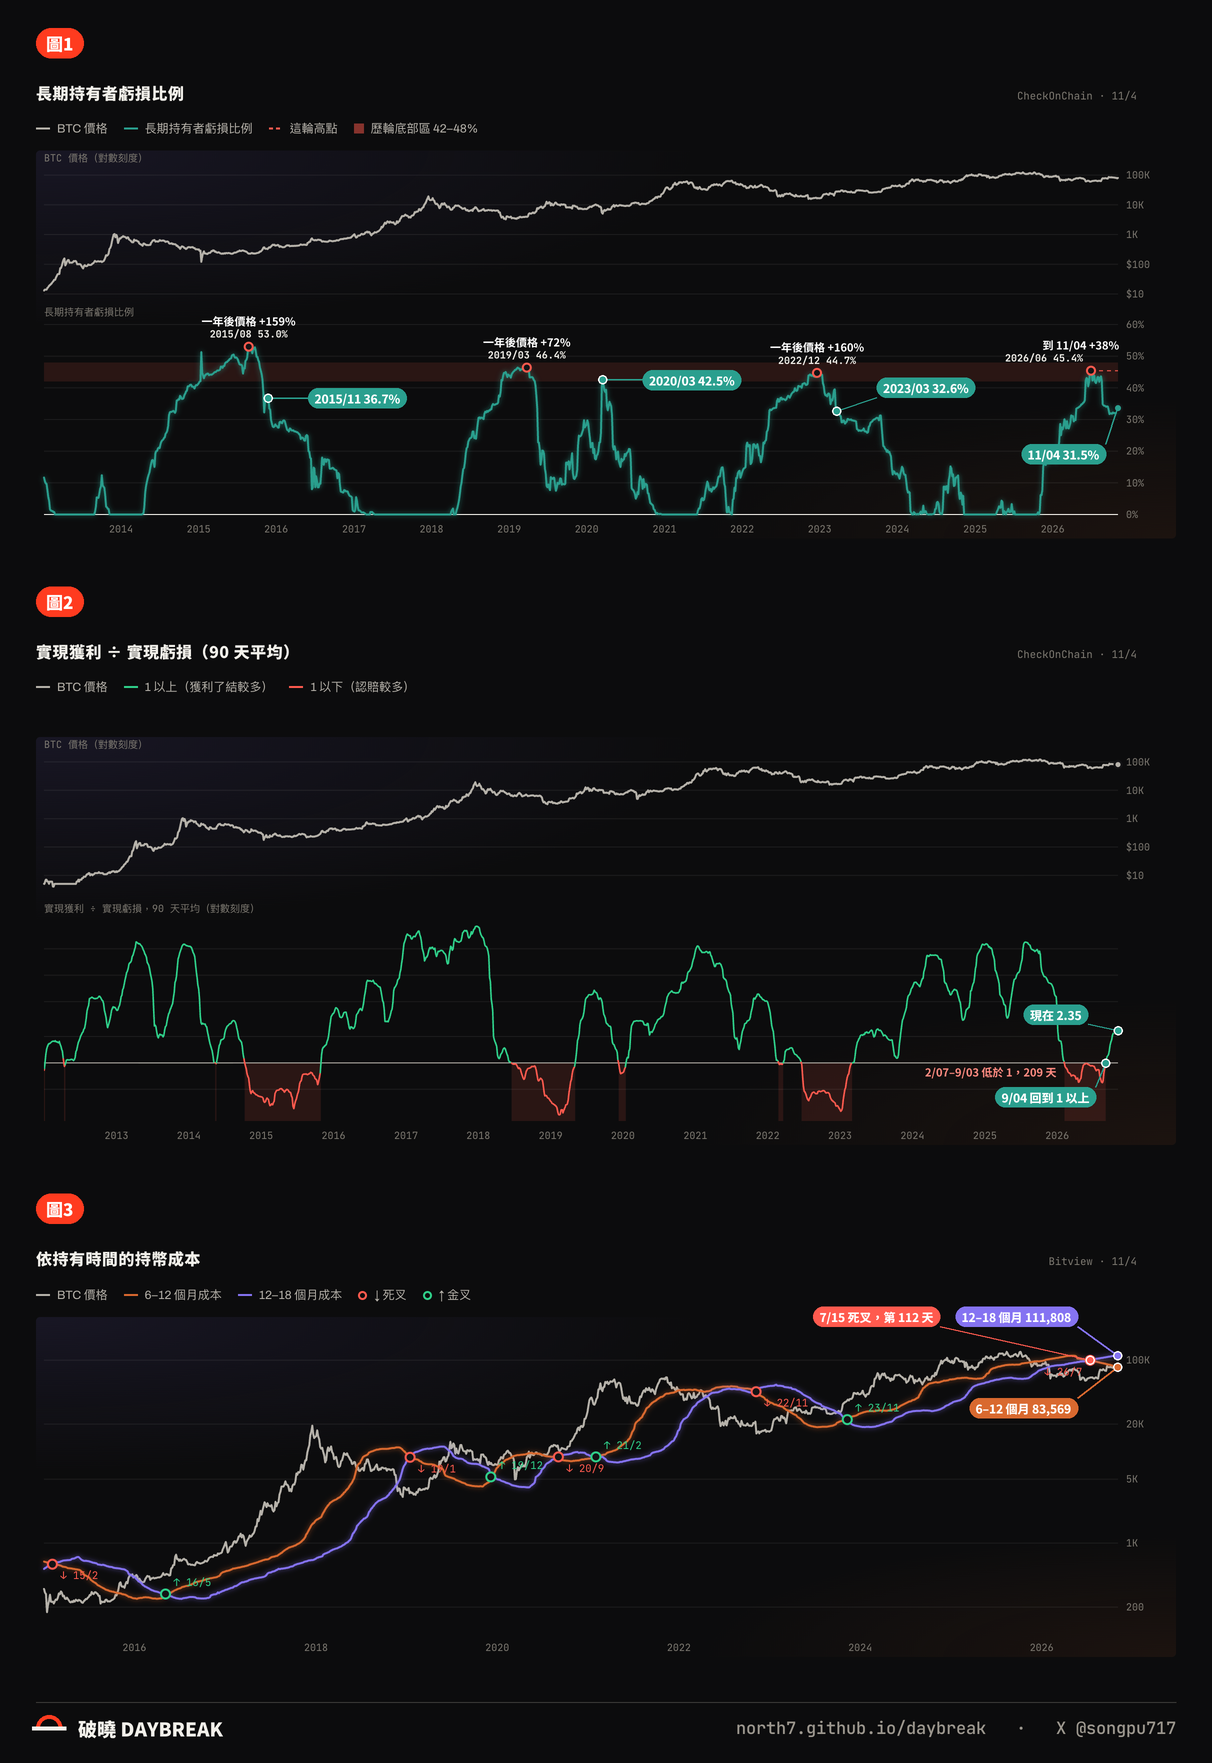
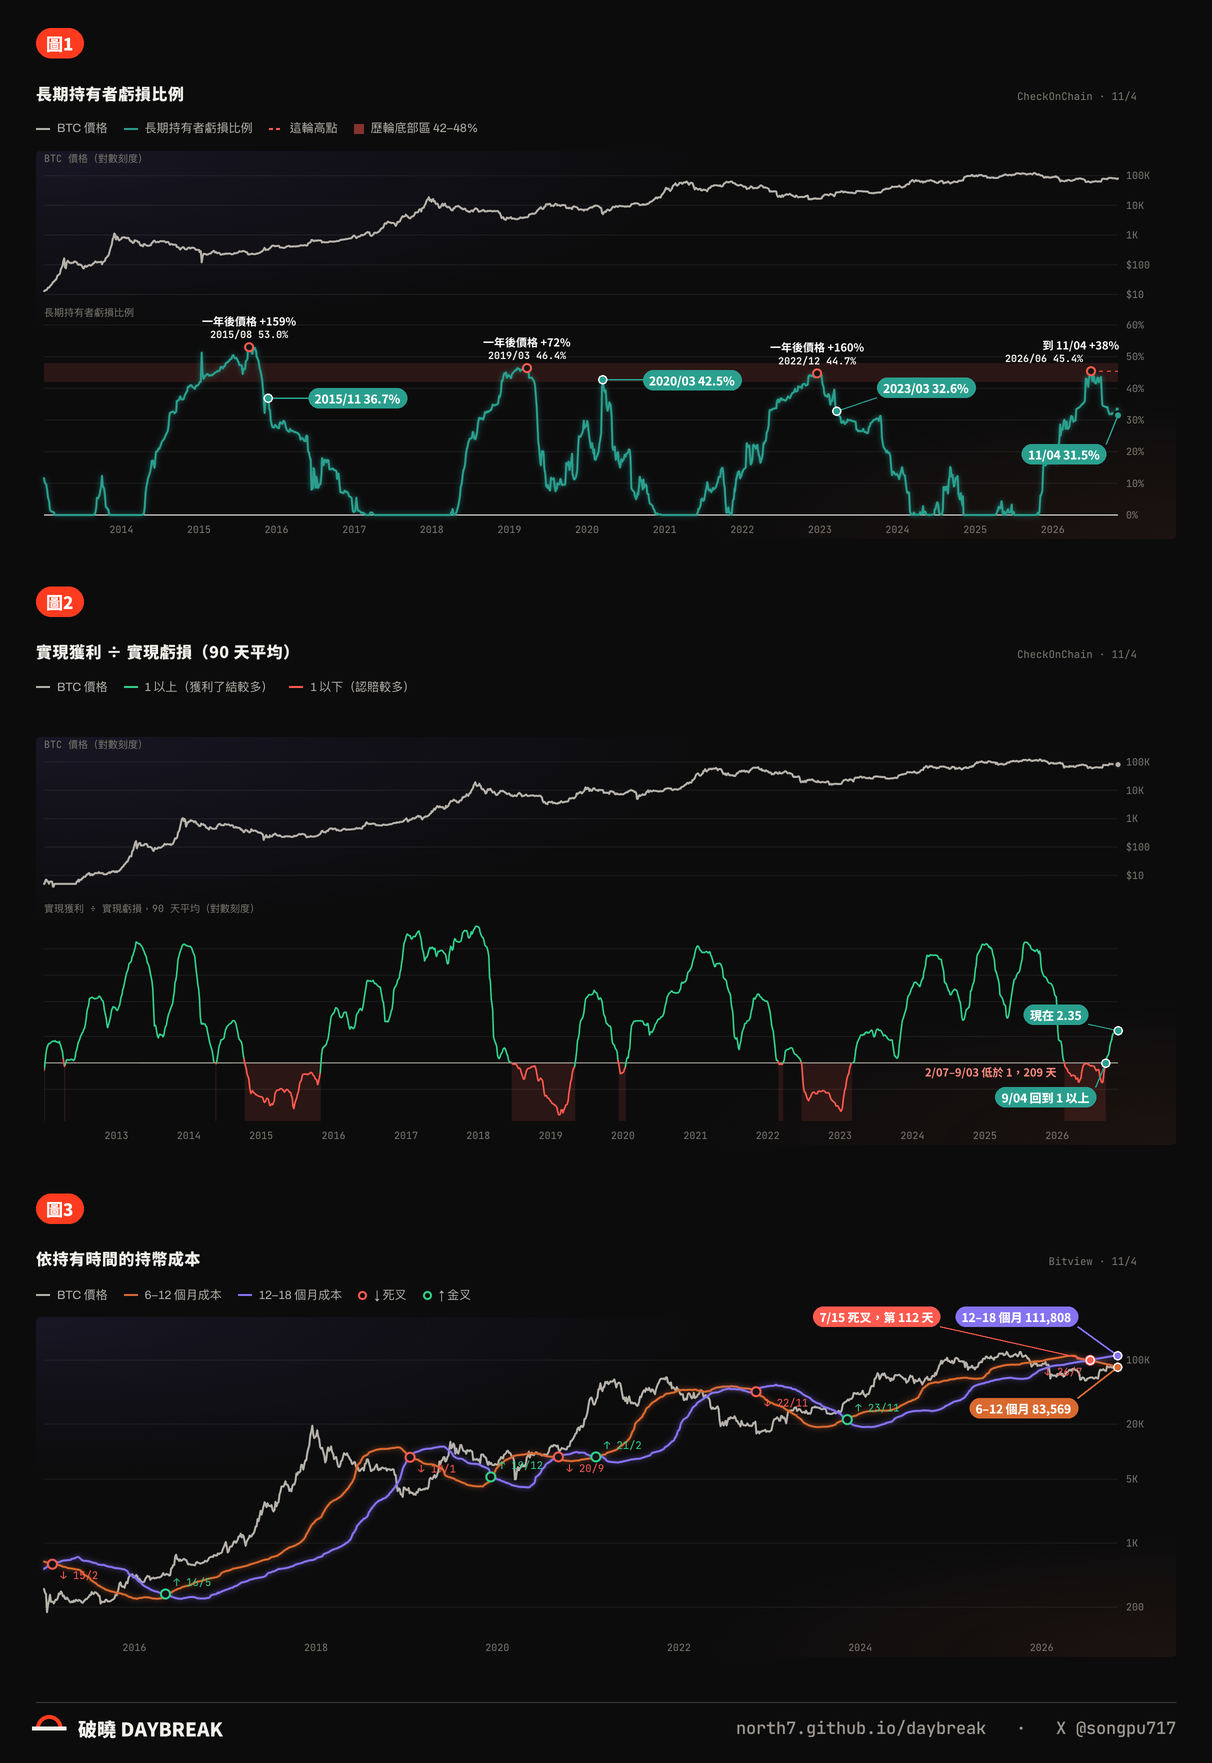
ops: 長貼文配圖工具（網站截圖、標數字、合成）＋流程說明；換上修好線尾的圖
- ops/post/site_shot.py：本機 Chrome 無頭模式截網站圖表面板（內建小伺服器、深色、藏掉解讀文字），另存圖上文字位置
- ops/post/annotate.py：依圖自己的刻度換算座標，把文中引用的數字標在圖上
- ops/post/longpost_img.py：幾張截圖疊成一張長貼文配圖，標「圖1、圖2…」
- ops/README.md：每日長貼文流程；發文小幫手的長貼文、快訊每天整份換新，過期就刪
- 11/05 第 2 則配圖換成網站修好線尾（PR #33）之後的版本

diff --git a/ops/post/site_shot.py b/ops/post/site_shot.py
@@ -1,0 +1,146 @@
+"""網站圖表截圖（2026-11-05 建立）：用本機 Chrome 無頭模式開「本機的網站檔案」（內建小伺服器，127.0.0.1:8790），
+截指定圖表面板成 PNG，同時存一份圖上文字的位置（刻度、標籤）給 annotate.py 換算座標。只用 Python 標準函式庫（自帶最小 WebSocket）。
+發文配圖用：clean=1 會藏掉解讀、表格、說明、按鈕，只留標題列、圖例、圖；theme 用 dark（2026-11-05 使用者選深色）。
+usage（倉庫根目錄）: python3 ops/post/site_shot.py <jobs.json> <輸出資料夾>
+jobs.json: {"lang": "zh"|"en", "theme": "dark"|"light", "width": 1440,
+            "items": [{"page": "onchain", "sel": "#c-lthloss", "out": "b1-lthloss-dark", "clean": 1, "pre": "<等動畫跑完的 js>"}]}
+輸出：<out>.png（2 倍解析度）與 <out>.json（圖上文字位置，CSS px）
+"""
+import base64, json, os, socket, struct, subprocess, sys, time, urllib.request
+
+CHROME = '/Applications/Google Chrome.app/Contents/MacOS/Google Chrome'
+PORT = 9333
+REPO = os.path.dirname(os.path.dirname(os.path.dirname(os.path.abspath(__file__))))   # 倉庫根目錄（本機的網站檔案）
+SITE = 'http://127.0.0.1:8790/'
+
+
+class WS:
+    def __init__(self, url):
+        assert url.startswith('ws://'); rest = url[5:]; hostport, path = rest.split('/', 1)
+        host, port = hostport.split(':')
+        self.s = socket.create_connection((host, int(port)))
+        key = base64.b64encode(os.urandom(16)).decode()
+        self.s.sendall((f'GET /{path} HTTP/1.1\r\nHost: {hostport}\r\nUpgrade: websocket\r\nConnection: Upgrade\r\n'
+                        f'Sec-WebSocket-Key: {key}\r\nSec-WebSocket-Version: 13\r\n\r\n').encode())
+        buf = b''
+        while b'\r\n\r\n' not in buf: buf += self.s.recv(4096)
+        head, self.buf = buf.split(b'\r\n\r\n', 1)
+        assert b' 101 ' in head.split(b'\r\n')[0], head
+        self.id = 0
+
+    def _read(self, n):
+        while len(self.buf) < n:
+            c = self.s.recv(1 << 20)
+            if not c: raise EOFError
+            self.buf += c
+        out, self.buf = self.buf[:n], self.buf[n:]; return out
+
+    def send(self, obj):
+        data = json.dumps(obj).encode(); mask = os.urandom(4); n = len(data)
+        hdr = bytes([0x81]) + (bytes([0x80 | n]) if n < 126 else bytes([0x80 | 126]) + struct.pack('>H', n) if n < 65536 else bytes([0x80 | 127]) + struct.pack('>Q', n))
+        self.s.sendall(hdr + mask + bytes(b ^ mask[i % 4] for i, b in enumerate(data)))
+
+    def recv(self):
+        msg = b''
+        while True:
+            b0, b1 = self._read(2); n = b1 & 0x7F
+            if n == 126: n = struct.unpack('>H', self._read(2))[0]
+            elif n == 127: n = struct.unpack('>Q', self._read(8))[0]
+            if b1 & 0x80: mk = self._read(4); p = bytes(b ^ mk[i % 4] for i, b in enumerate(self._read(n)))
+            else: p = self._read(n)
+            msg += p
+            if b0 & 0x80: break
+        return json.loads(msg)
+
+    def call(self, method, **params):
+        self.id += 1; mid = self.id; self.send(dict(id=mid, method=method, params=params))
+        while True:
+            m = self.recv()
+            if m.get('id') == mid:
+                if 'error' in m: raise RuntimeError(f'{method}: {m["error"]}')
+                return m.get('result', {})
+
+    def js(self, expr):
+        r = self.call('Runtime.evaluate', expression=expr, returnByValue=True, awaitPromise=True)
+        if 'exceptionDetails' in r: raise RuntimeError(r['exceptionDetails'])
+        return r['result'].get('value')
+
+
+def wait(ws, expr, t=30):
+    t0 = time.time()
+    while time.time() - t0 < t:
+        try:
+            if ws.js(expr): return True
+        except Exception: pass
+        time.sleep(0.4)
+    return False
+
+
+def serve():
+    import functools, http.server, threading
+    h = functools.partial(http.server.SimpleHTTPRequestHandler, directory=REPO)
+    h.func.log_message = lambda *a: None
+    srv = http.server.ThreadingHTTPServer(('127.0.0.1', 8790), h)
+    threading.Thread(target=srv.serve_forever, daemon=True).start(); return srv
+
+
+def main():
+    srv = serve()
+    jobs = json.load(open(sys.argv[1])); out = sys.argv[2]; os.makedirs(out, exist_ok=True)
+    import tempfile; prof = tempfile.mkdtemp(prefix='daybreak-chrome-')   # 暫存的 Chrome 設定檔，不寫進倉庫
+    W = jobs.get('width', 1440)
+    p = subprocess.Popen([CHROME, '--headless=new', f'--remote-debugging-port={PORT}', f'--user-data-dir={prof}', '--hide-scrollbars',
+                          '--no-first-run', '--no-default-browser-check', f'--window-size={W},1000', 'about:blank'],
+                         stdout=subprocess.DEVNULL, stderr=subprocess.DEVNULL)
+    try:
+        for _ in range(50):
+            try: tg = json.load(urllib.request.urlopen(f'http://127.0.0.1:{PORT}/json')); break
+            except Exception: time.sleep(0.2)
+        page = next(t for t in tg if t['type'] == 'page')
+        ws = WS(page['webSocketDebuggerUrl'])
+        ws.call('Page.enable'); ws.call('Runtime.enable')
+        ws.call('Emulation.setDeviceMetricsOverride', width=W, height=1000, deviceScaleFactor=2, mobile=False)
+        ws.call('Emulation.setEmulatedMedia', features=[{'name': 'prefers-color-scheme', 'value': jobs.get('theme', 'light')}])
+        ws.call("Page.navigate", url=SITE); wait(ws, "location.href.indexOf(\"8790\") > 0 && document.readyState === \"complete\"")
+        print('at', ws.js('location.href + " " + document.readyState + " " + document.title'))
+        ws.js(f"localStorage.setItem('daybreak.lang', '{jobs['lang']}'); localStorage.setItem('daybreak.theme', '{jobs.get('theme', 'light')}'); true")
+        cur = None
+        for it in jobs['items']:
+            if it['page'] != cur:
+                ws.js('window.__old = 1; true')
+                ws.call('Page.navigate', url=SITE + '?v=' + str(int(time.time())) + '#' + it['page']); cur = it['page']
+                wait(ws, '!window.__old'); wait(ws, "location.href.indexOf(\"8790\") > 0 && document.readyState === \"complete\""); time.sleep(1.0)
+            sel = json.dumps(it['sel'])
+            ok = wait(ws, f'(function(){{var e=document.querySelector({sel}); return !!(e && e.querySelector("svg,canvas"));}})()', 40)
+            if not ok: print('MISSING', it['sel']); continue
+            if it.get('pre'): ws.js(it['pre']); time.sleep(0.8)
+            if it.get('dump'): print(ws.js(f'''(function(){{var p=document.querySelector({sel}).closest("section.panel"); return Array.from(p.children).map(function(c){{return c.tagName+"."+c.className+"#"+c.id+" | "+(c.textContent||"").slice(0,50).replace(/\\s+/g," ")+" | h="+Math.round(c.getBoundingClientRect().height);}}).join("\\n");}})()''')); continue
+            if it.get('clean'):   # 發文用：只留標題列、圖例、圖；解讀、表格、說明、按鈕都藏起來
+                ws.js(f'''(function(){{var p=document.querySelector({sel}).closest("section.panel");
+                    p.querySelectorAll(".interp,#ac-say,.rd,.tbl-wrap,p.note").forEach(function(e){{e.style.display="none";}});
+                    p.querySelectorAll("button").forEach(function(b){{b.style.visibility="hidden"; var q=b.parentElement; if(Array.prototype.every.call(q.children,function(c){{return c.tagName==="BUTTON";}})) q.style.visibility="hidden";}});
+                    p.querySelectorAll(".panel-h a").forEach(function(a){{if(a.textContent.trim()==="#")a.style.visibility="hidden";}});
+                    return true;}})()'''); time.sleep(0.6)
+                it['crop'] = 'chart'
+            ws.js(f'document.querySelector({sel}).closest("section.panel").scrollIntoView({{block:"start"}}); true'); time.sleep(1.2)
+            box = ws.js(f'''(function(){{var c=document.querySelector({sel}), p=c.closest("section.panel"), r=p.getBoundingClientRect(), cr=c.getBoundingClientRect();
+                var sy=window.scrollY, sx=window.scrollX;
+                return {{x:r.left+sx, y:r.top+sy, w:r.width, h:r.height, cy:cr.top+sy, ch:cr.height}};}})()''')
+            y, h = box['y'], box['h']
+            if it.get('crop') == 'chart':   # 面板頂到圖底（含標題列、解讀、圖例、圖）
+                h = box['cy'] + box['ch'] - box['y'] + 16
+            r = ws.call('Page.captureScreenshot', format='png', captureBeyondViewport=True,
+                        clip=dict(x=box['x'], y=y, width=box['w'], height=h, scale=1))
+            fn = os.path.join(out, it['out'] + '.png'); open(fn, 'wb').write(base64.b64decode(r['data']))
+            print('wrote', fn, round(box['w']), 'x', round(h))
+            # 圖上所有文字（刻度、標籤）的位置，相對截圖左上角、CSS px；給 annotate.py 換算座標用
+            geo = ws.js(f'''(function(){{var c=document.querySelector({sel}), p=c.closest("section.panel"), pr=p.getBoundingClientRect();
+                return Array.from(c.querySelectorAll("svg text")).map(function(t){{var b=t.getBoundingClientRect();
+                  return {{t:(t.textContent||"").trim(), x:b.left-pr.left+b.width/2, y:b.top-pr.top+b.height/2, l:b.left-pr.left, r:b.right-pr.left, anchor:t.getAttribute("text-anchor")||""}};}});}})()''')
+            json.dump(dict(dpr=2, texts=geo), open(os.path.join(out, it['out'] + '.json'), 'w'), ensure_ascii=False)
+    finally:
+        p.terminate(); srv.shutdown()
+
+
+if __name__ == '__main__':
+    main()

diff --git a/ops/post/annotate.py b/ops/post/annotate.py
@@ -1,0 +1,69 @@
+"""在網站圖表截圖上標出文中引用的數字（2026-11-05 使用者要求：文中提到、圖上找得到的數字要標出位置）。
+座標由圖自己的刻度換算（site_shot.py 存的 .json）：年份標籤在每年 1/1、% 刻度線性、價格與比值刻度對數。
+usage（倉庫根目錄）: python3 ops/post/annotate.py <spec.json> <截圖資料夾> <輸出資料夾> <字型資料夾>
+spec: {"<raw name>": {"axes": {"<axis>": {"kind": "lin"|"log", "unit": "%"|"", "yrange": [y0, y1]}}, "palette": {...},
+                       "marks": [{"axis": "<axis>", "date": "YYYY-MM-DD", "v": 6.5, "label": "...", "color": "s2"|"#hex",
+                                  "lv": <label value>, "ldx": <label x offset, CSS px>, "anchor": "middle"|"start"|"end",
+                                  "dot": true, "plain": false}]}}
+  yrange picks which tick labels belong to an axis (CSS px, top of the screenshot = 0). Year labels sit at Jan 1.
+  Legacy: "axis": "pct" at the image level = one linear % axis over all % labels.
+"""
+import datetime as dt, json, math, os, re, sys
+sys.path.insert(0, os.path.join(os.path.dirname(os.path.dirname(os.path.dirname(os.path.abspath(__file__)))), 'pipeline'))
+from PIL import Image, ImageDraw
+import share_card as SC
+
+spec, rawdir, outdir, fonts = sys.argv[1:5]
+Fn = SC.fonts(fonts); os.makedirs(outdir, exist_ok=True)
+
+
+def fit(pairs):
+    n = len(pairs); mx = sum(a for a, _ in pairs) / n; my = sum(b for _, b in pairs) / n
+    b = sum((a - mx) * (c - my) for a, c in pairs) / sum((a - mx) ** 2 for a, _ in pairs)
+    return lambda v: my + b * (v - mx)
+
+
+def num(t):
+    m = re.fullmatch(r'\$?([\d.]+)(K|%)?', t.replace(',', ''))
+    if not m: return None
+    try: return float(m.group(1)) * (1000 if m.group(2) == 'K' else 1)
+    except ValueError: return None
+
+
+for name, s in json.load(open(spec, encoding='utf-8')).items():
+    g = json.load(open(os.path.join(rawdir, name + '.json'))); K = g['dpr']; T = g['texts']
+    X = fit([(dt.date(int(t['t']), 1, 1).toordinal(), t['x']) for t in T if re.fullmatch(r'20\d\d', t['t'])])
+    axes = s.get('axes') or {'pct': {'kind': 'lin', 'unit': '%', 'yrange': [0, 1e9]}}
+    Y = {}
+    for an, ax in axes.items():
+        lo, hi = ax['yrange']
+        ticks = [(num(t['t']), t['y']) for t in T if num(t['t']) is not None and lo <= t['y'] <= hi
+                 and (t['t'].endswith('%') if ax.get('unit') == '%' else not t['t'].endswith('%')) and t['x'] > 900]
+        if ax['kind'] == 'log':
+            f = fit([(math.log10(v), y) for v, y in ticks]); Y[an] = (lambda f: lambda v: f(math.log10(v)))(f)
+        else:
+            Y[an] = fit(ticks)
+        print(name, an, 'ticks', [v for v, _ in ticks])
+    first = next(iter(axes))
+    im = Image.open(os.path.join(rawdir, name + '.png')).convert('RGB'); d = ImageDraw.Draw(im)
+    pal = s.get('palette') or {}
+    lf = Fn['cjk'](24, 800)
+    for m in s['marks']:
+        Ya = Y[m.get('axis', first)]
+        x = X(dt.date.fromisoformat(m['date']).toordinal()) * K; y = Ya(m['v']) * K
+        col = pal.get(m.get('color'), m.get('color', '#FFD23F'))
+        lx = x + m.get('ldx', 0) * K; ly = Ya(m.get('lv', m['v'])) * K
+        if m.get('plain'):
+            d.text((lx, ly), m['label'], font=Fn['cjk'](22, 700), fill=col, anchor={'start': 'lm', 'end': 'rm'}.get(m.get('anchor'), 'mm'))
+            continue
+        tw = d.textlength(m['label'], font=lf); pw, ph = tw + 26, 40
+        an = m.get('anchor', 'middle')
+        bx0 = lx - pw / 2 if an == 'middle' else lx if an == 'start' else lx - pw
+        bx0 = max(4, min(im.width - pw - 4, bx0)); by0 = ly - ph / 2
+        cx = min(max(x, bx0), bx0 + pw); cy = by0 + ph if y > by0 + ph else by0 if y < by0 else ly
+        if abs(cy - y) > 4 or abs(cx - x) > 4: d.line([cx, cy, x, y], fill=col, width=3)
+        d.rounded_rectangle([bx0, by0, bx0 + pw, by0 + ph], radius=ph / 2, fill=col)
+        d.text((bx0 + pw / 2, ly), m['label'], font=lf, fill='#FFFFFF', anchor='mm')
+        if m.get('dot', True):
+            r = 9; d.ellipse([x - r, y - r, x + r, y + r], fill=col, outline='#FFFFFF', width=3)
+    im.save(os.path.join(outdir, name + '.png')); print('annotated', name, len(s['marks']))

diff --git a/ops/post/longpost_img.py b/ops/post/longpost_img.py
@@ -1,0 +1,27 @@
+"""長貼文配圖：把幾張（已標註的）網站圖表截圖疊成一張直式圖，每張上方標紅色「圖1、圖2…」，對應內文；底部破曉頁尾。
+一則貼文用一張合成圖：X 的多圖格子會把橫式圖裁掉（2 張並排每格約 7:8），單張圖在時間軸上完整顯示。
+usage（倉庫根目錄）: python3 ops/post/longpost_img.py <輸出.png> <字型資料夾> <圖1.png> [<圖2.png> ...]"""
+import os, sys
+sys.path.insert(0, os.path.join(os.path.dirname(os.path.dirname(os.path.dirname(os.path.abspath(__file__)))), 'pipeline'))
+from PIL import Image, ImageDraw
+import share_card as SC
+
+out, fonts, *panels = sys.argv[1:]
+Fn = SC.fonts(fonts); RED, INK, INK3, LINE = '#FF3B1F', '#F2F0EA', '#9C978E', '#3A3936'
+ims = [Image.open(p).convert('RGB') for p in panels]
+bg = ims[0].getpixel((ims[0].width // 2, 30))
+P, TAG, GAP, TOP, FOOT = 72, 60, 64, 56, 140
+W = max(i.width for i in ims) + 2 * P
+H = TOP + sum(TAG + 14 + i.height for i in ims) + GAP * (len(ims) - 1) + 40 + FOOT
+img = Image.new('RGB', (W, H), bg); d = ImageDraw.Draw(img)
+y = TOP; tf = Fn['cjk'](34, 900)
+for n, im in enumerate(ims, 1):
+    t = f'圖{n}'; tw = d.textlength(t, font=tf)
+    d.rounded_rectangle([P, y, P + tw + 40, y + TAG], radius=TAG / 2, fill=RED)
+    d.text((P + 20 + tw / 2, y + TAG / 2), t, font=tf, fill='#FFFFFF', anchor='mm')
+    y += TAG + 14; img.paste(im, (P, y)); y += im.height + GAP
+fy = H - 70; d.line([P, fy - 52, W - P, fy - 52], fill=LINE, width=2)
+d.arc([P, fy - 26, P + 52, fy + 26], 180, 360, fill=RED, width=8); d.line([P - 8, fy, P + 60, fy], fill=INK, width=8)
+d.text((P + 84, fy), '破曉 DAYBREAK', font=Fn['cjk'](38, 900), fill=INK, anchor='lm')
+d.text((W - P, fy), 'north7.github.io/daybreak   ·   X @songpu717', font=Fn['mono'](34), fill=INK3, anchor='rm')
+img.resize((W // 2, H // 2), Image.LANCZOS).save(out, optimize=True); print('wrote', out, (W // 2, H // 2), round(W / H, 2))

diff --git a/ops/README.md b/ops/README.md
@@ -11,6 +11,9 @@ ops/
   README.md          這份說明
   post/index.html    X 發文小幫手（原本的根目錄 post.html，2026-11-04 搬進來；根目錄 post.html 現在只轉址到這裡）
   post/flash.py      快訊配圖 → data/flash/<id>-<語言>.png（依 data/flash.json）
+  post/site_shot.py  網站圖表截圖（本機 Chrome 無頭模式＋內建小伺服器；深色；藏掉解讀文字）＋圖上文字位置 .json
+  post/annotate.py   把文中引用的數字標在截圖上（座標由圖自己的刻度換算）
+  post/longpost_img.py 長貼文配圖：幾張截圖疊成一張，標「圖1、圖2…」＋頁尾 → data/longposts/<id>.png
   picks/             每日推薦發文圖表＋解說的說明（程式在 pipeline/picks.py，圖在 data/picks/，見 picks/README.md）
   video/             每日短影片腳本（原本在 media/）
     make_audio.py      配音（edge-tts 台灣語音）＋自製配樂 → timing.json、mix.wav
@@ -61,6 +64,7 @@ ops/
 | 你 | 手機開發文小幫手 | 一鍵把圖文送進 X | <https://north7.github.io/daybreak/ops/post/> |
 | 你／Claude | 本機 | 做當日短影片（見下） | `ops/video/out/` |
 | 日報後 | Claude＋Grok → Claude → 你 | Claude 掃固定名單、Grok 找名單以外的貼文，Claude 讀原文、依當日數據寫回覆和配圖，你在回覆小幫手照順序回（標「建議引用」的用引用發）；讀原文時看到網站還沒有的指標或圖，順手記下 | `data/replies.json`、`data/replies/`；<https://north7.github.io/daybreak/ops/replies/>；點子記在 [`docs/indicator-ideas.md`](../docs/indicator-ideas.md) |
+| 中午、晚上 | Claude → 你 | 每天 1–2 則圖表長貼文（X Premium 長貼文，不是 Article）：寫法見 [`brand/voice.md`](brand/voice.md) 改稿紀錄；配網站原圖（深色、文中數字標在圖上），放到發文小幫手「長貼文」 | `data/longposts.json`、`data/longposts/` |
 | 盤中有事時 | Claude → 你 | 新低／新高、ETF 數據、大爆倉：寫中英文快訊和配圖，放到發文小幫手最上面 | `data/flash.json`、`data/flash/` |
 | 你傳通知截圖時；隔天寫回覆前 | Claude | 記錄當天發了什麼、誰回應、瀏覽多少；隔天更新數字並彙整 | `ops/log/<日期>.json`（見 [`log/README.md`](log/README.md)） |
 
@@ -107,3 +111,14 @@ python make_short_017.py ../.. ~/fonts out/daybreak-017-short.mp4 --audio out/01
 ## 之後可以加
 
 - 影片模板化：把 `make_short_0xx.py` 共用的繪圖函式抽成一份，每期只換分鏡與旁白 JSON。
+
+## 長貼文（2026-11-05 起）
+
+每天 1–2 則，X Premium 長貼文（不是 X 長文 Article）。發文小幫手的「長貼文」一區只顯示台北時間今天的；**每天整份換新**：`data/longposts.json` 只留當天的 items，`data/longposts/` 刪掉前一天的圖（快訊 `data/flash.json`、`data/flash/` 也一樣，過期就刪）。
+
+- **寫法**（細節在 `brand/voice.md`）：像 Murphy 日常長貼文的深度和長度（約 600–1,000 字），一個核心指標＋1–2 個佐證；標題句 → 帶日期的數字 → 「何謂…」白話 → 歷史規律 → 現在 → 誰在買、誰在賣（只從大週期講）→ 我的判斷（有信心）→ 什麼情況會改看法 → 之後會再追。引用的極值用每日資料核對（`pipeline/coc_cache/bitview.json` 等），不要用 latest.json 裡抽樣過的 rows。
+- **配圖**（在倉庫根目錄）：
+  1. `python3 ops/post/site_shot.py <jobs.json> <資料夾>`：jobs 寫 `"theme": "dark"`、每張 `"clean": 1`，截網站原圖（上格價格、下格指標）。
+  2. `python3 ops/post/annotate.py <spec.json> <資料夾> <輸出> <字型>`：文中提到、圖上找得到的數字都標上去。
+  3. `python3 ops/post/longpost_img.py data/longposts/<id>.png <字型> <圖1> <圖2> ...`：疊成一張，標「圖1、圖2…」。X 多圖格子會把橫圖裁掉，所以一則只放這一張。
+- `data/longposts.json`：`{"items": [{"id", "time"（建議發文時間，UTC）, "title", "note", "zh", "en"（可省）, "images": ["data/longposts/<id>.png"]}]}`
